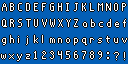
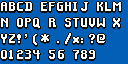
Replace font with bolder, more readable one

diff --git a/sprites/sprite_text.c b/sprites/sprite_text.c
@@ -5,15 +5,24 @@
 
 #include "sprite_buffer.h"
 
-static void write_char(char c, uint32_t x, uint32_t y);
-static void write_hex_char(uint32_t value, uint32_t x, uint32_t y);
+static const uint8_t BASE_TILE_BLANK = 0x7f;
+
+typedef struct {
+    uint8_t base_tile;
+    uint8_t width : 4;
+    bool wide : 1;
+} CharAttributes;
+
+static void write_char(char c, uint32_t *x, uint32_t y);
+static void write_hex_char(uint32_t value, uint32_t *x, uint32_t y);
 
 static uint16_t div_mod_10(uint16_t dividend, uint32_t *remainder);
 
+static const CharAttributes *char_attributes(char c);
+
 void st_write(const char *text, uint32_t x, uint32_t y) {
     while (*text) {
-        write_char(*text++, x, y);
-        x += 8;
+        write_char(*text++, &x, y);
     }
 }
 
@@ -21,20 +30,20 @@ void st_write_decimal(uint8_t value, uint32_t x, uint32_t y) {
     uint32_t ones_digit = 0;
     uint32_t tens_digit = div_mod_10(value, &ones_digit);
 
-    write_char('0' + ones_digit, x + 8, y);
     if (tens_digit) {
-        write_char('0' + tens_digit, x, y);
+        write_char('0' + tens_digit, &x, y);
     }
+    write_char('0' + ones_digit, &x, y);
 }
 
 void st_write_hex(uint16_t value, uint32_t x, uint32_t y) {
-    write_hex_char(value >> 12 & 0xf, x, y);
-    write_hex_char(value >> 8 & 0xf, x + 8, y);
-    write_hex_char(value >> 4 & 0xf, x + 16, y);
-    write_hex_char(value & 0xf, x + 24, y);
+    write_hex_char(value >> 12 & 0xf, &x, y);
+    write_hex_char(value >> 8 & 0xf, &x, y);
+    write_hex_char(value >> 4 & 0xf, &x, y);
+    write_hex_char(value & 0xf, &x, y);
 }
 
-static void write_hex_char(uint32_t value, uint32_t x, uint32_t y) {
+static void write_hex_char(uint32_t value, uint32_t *x, uint32_t y) {
     if (value >= 10) {
         value += 'A' - 10;
     } else {
@@ -44,47 +53,37 @@ static void write_hex_char(uint32_t value, uint32_t x, uint32_t y) {
     write_char(value, x, y);
 }
 
-static void write_char(char c, uint32_t x, uint32_t y) {
+static void write_char(char c, uint32_t *x, uint32_t y) {
     const uint16_t tile_base = 0x180;
     const uint8_t palette = 9;
 
     if (c == ' ') {
+        *x += 8;
         return;
     }
-    if (c == '0') {
-        c = 'O';
+
+    // Default to uppercase
+    if (c >= 'a' && c != 'x') {
+        c -= ('a' - 'A');
     }
 
-    uint32_t tile = 0;
-    if (c == '!') {
-        tile = 0x3f;
-    } else if (c == ':') {
-        tile = 0x3d;
-    } else if (c <= '9') {
-        tile = c - '0' + (26 * 2) - 1;
-    } else if (c <= 'Z') {
-        tile = c - 'A';
-    } else if (c <= 'z') {
-        tile = c - 'a' + 26;
-    } else {
-        // Unsupported char
-        tile = 0x3f;
-    }
+    const CharAttributes *attributes = char_attributes(c);
 
-    uint32_t row = tile / 0x10;
-    tile %= 0x10;
-    tile += row * 0x20;
+    uint16_t tile = attributes->base_tile;
 
-    uint32_t x_block = x;
+    uint32_t x_block = *x & 0x3ff;
 
     uint32_t y_block = y;
     y_block |= SPRITE_16_TALL;
+    y_block |= (attributes->wide ? SPRITE_16_WIDE : 0);
 
     uint32_t g_block = tile_base + tile;
     g_block |= palette << SPRITE_PAL_SHIFT;
     g_block |= 3 << SPRITE_PRIORITY_SHIFT;
 
     sb_write_priority(x_block, y_block, g_block);
+
+    *x += attributes->width;
 }
 
 // This is only intended for small dividends where the fixed point approximation works
@@ -98,4 +97,139 @@ static uint16_t div_mod_10(uint16_t dividend, uint32_t *remainder) {
     }
 
     return quotient;
+}
+
+static const CharAttributes attributes[128] = {
+    { 0 },   // U+0000 (nul)
+    { 0 },   // U+0001
+    { 0 },   // U+0002
+    { 0 },   // U+0003
+    { 0 },   // U+0004
+    { 0 },   // U+0005
+    { 0 },   // U+0006
+    { 0 },   // U+0007
+    { 0 },   // U+0008
+    { 0 },   // U+0009
+    { 0 },   // U+000A
+    { 0 },   // U+000B
+    { 0 },   // U+000C
+    { 0 },   // U+000D
+    { 0 },   // U+000E
+    { 0 },   // U+000F
+    { 0 },   // U+0010
+    { 0 },   // U+0011
+    { 0 },   // U+0012
+    { 0 },   // U+0013
+    { 0 },   // U+0014
+    { 0 },   // U+0015
+    { 0 },   // U+0016
+    { 0 },   // U+0017
+    { 0 },   // U+0018
+    { 0 },   // U+0019
+    { 0 },   // U+001A
+    { 0 },   // U+001B
+    { 0 },   // U+001C
+    { 0 },   // U+001D
+    { 0 },   // U+001E
+    { 0 },   // U+001F
+    { .base_tile = BASE_TILE_BLANK },                   // U+0020 (space)
+    { .base_tile = 0x42, .width = 7, .wide = false },   // U+0021 (!)
+    { 0 },   // U+0022 (")
+    { 0 },   // U+0023 (#)
+    { 0 },   // U+0024 ($)
+    { 0 },   // U+0025 (%)
+    { 0 },   // U+0026 (&)
+    { 0 },   // U+0027 (')
+    { 0 },   // U+0028 (()
+    { 0 },   // U+0029 ())
+    { .base_tile = 0x45, .width = 11, .wide = true },   // U+002A (*)
+    { 0 },   // U+002B (+)
+    { 0 },   // U+002C (,)
+    { 0 },   // U+002D (-)
+    { .base_tile = 0x47, .width = 5, .wide = false },   // U+002E (.)
+    { .base_tile = 0x48, .width = 9, .wide = false },   // U+002F (/)
+    { .base_tile = 0x60, .width = 9, .wide = false },   // U+0030 (0)
+    { .base_tile = 0x61, .width = 9, .wide = false },   // U+0031 (1)
+    { .base_tile = 0x62, .width = 9, .wide = false },   // U+0032 (2)
+    { .base_tile = 0x63, .width = 9, .wide = false },   // U+0033 (3)
+    { .base_tile = 0x64, .width = 10, .wide = true },   // U+0034 (4)
+    { .base_tile = 0x66, .width = 9, .wide = false },   // U+0035 (5)
+    { .base_tile = 0x67, .width = 10, .wide = true },   // U+0036 (6)
+    { .base_tile = 0x69, .width = 9, .wide = false },   // U+0037 (7)
+    { .base_tile = 0x6a, .width = 9, .wide = false },   // U+0038 (8)
+    { .base_tile = 0x6b, .width = 9, .wide = false },   // U+0039 (9)
+    { .base_tile = 0x4a, .width = 4, .wide = false },   // U+003A (:)
+    { 0 },    // U+003B (;)
+    { 0 },    // U+003C (<)
+    { 0 },    // U+003D (=)
+    { 0 },    // U+003E (>)
+    { .base_tile = 0x4b, .width = 9, .wide = false },   // U+003F (?)
+    { .base_tile = 0x4c, .width = 11, .wide = true },   // U+0040 (@)
+    { .base_tile = 0x00, .width = 9, .wide = false },   // U+0041 (A)
+    { .base_tile = 0x01, .width = 9, .wide = false },   // U+0042 (B)
+    { .base_tile = 0x02, .width = 9, .wide = false },   // U+0043 (C)
+    { .base_tile = 0x03, .width = 10, .wide = true },   // U+0044 (D)
+    { .base_tile = 0x05, .width = 9, .wide = false },   // U+0045 (E)
+    { .base_tile = 0x06, .width = 9, .wide = false },   // U+0046 (F)
+    { .base_tile = 0x07, .width = 9, .wide = false },   // U+0047 (G)
+    { .base_tile = 0x08, .width = 9, .wide = false },   // U+0048 (H)
+    { .base_tile = 0x09, .width = 9, .wide = false },   // U+0049 (I)
+    { .base_tile = 0x0a, .width = 10, .wide = true },   // U+004A (J)
+    { .base_tile = 0x0c, .width = 9, .wide = false },   // U+004B (K)
+    { .base_tile = 0x0d, .width = 9, .wide = false },   // U+004C (L)
+    { .base_tile = 0x0e, .width = 11, .wide = true },   // U+004D (M)
+    { .base_tile = 0x20, .width = 10, .wide = true },   // U+004E (N)
+    { .base_tile = 0x22, .width = 9, .wide = false },   // U+004F (O)
+    { .base_tile = 0x23, .width = 9, .wide = false },   // U+0050 (P)
+    { .base_tile = 0x24, .width = 10, .wide = true },   // U+0051 (Q)
+    { .base_tile = 0x26, .width = 10, .wide = true },   // U+0052 (R)
+    { .base_tile = 0x28, .width = 9, .wide = false },   // U+0053 (S)
+    { .base_tile = 0x29, .width = 9, .wide = false },   // U+0054 (T)
+    { .base_tile = 0x2a, .width = 9, .wide = false },   // U+0055 (U)
+    { .base_tile = 0x2b, .width = 9, .wide = false },   // U+0056 (V)
+    { .base_tile = 0x2c, .width = 12, .wide = true },   // U+0057 (W)
+    { .base_tile = 0x2e, .width = 10, .wide = true },   // U+0058 (X)
+    { .base_tile = 0x40, .width = 9, .wide = false },   // U+0059 (Y)
+    { .base_tile = 0x41, .width = 9, .wide = false },   // U+005A (Z)
+    { 0 },    // U+005B ([)
+    { 0 },    // U+005C (\)
+    { 0 },    // U+005D (])
+    { 0 },    // U+005E (^)
+    { 0 },    // U+005F (_)
+    { 0 },    // U+0060 (`)
+    { 0 },    // U+0061 (a)
+    { 0 },    // U+0062 (b)
+    { 0 },    // U+0063 (c)
+    { 0 },    // U+0064 (d)
+    { 0 },    // U+0065 (e)
+    { 0 },    // U+0066 (f)
+    { 0 },    // U+0067 (g)
+    { 0 },    // U+0068 (h)
+    { 0 },    // U+0069 (i)
+    { 0 },    // U+006A (j)
+    { 0 },    // U+006B (k)
+    { 0 },    // U+006C (l)
+    { 0 },    // U+006D (m)
+    { 0 },    // U+006E (n)
+    { 0 },    // U+006F (o)
+    { 0 },    // U+0070 (p)
+    { 0 },    // U+0071 (q)
+    { 0 },    // U+0072 (r)
+    { 0 },    // U+0073 (s)
+    { 0 },    // U+0074 (t)
+    { 0 },    // U+0075 (u)
+    { 0 },    // U+0076 (v)
+    { 0 },    // U+0077 (w)
+    { .base_tile = 0x49, .width = 9, .wide = false },   // U+0078 (x)
+    { 0 },   // U+0079 (y)
+    { 0 },   // U+007A (z)
+    { 0 },   // U+007B ({)
+    { 0 },   // U+007C (|)
+    { 0 },   // U+007D (})
+    { 0 },   // U+007E (~)
+    { 0 }    // U+007F
+};
+
+static const CharAttributes *char_attributes(char c) {
+    return &attributes[(uint8_t)c];
 }

diff --git a/palette/palette_buffer.c b/palette/palette_buffer.c
@@ -40,16 +40,25 @@ void pb_queue_palette(uint8_t palette_id) {
     palette_needs_upload[palette_id] = true;
 }
 
-void pb_alpha_mask_all(uint8_t alpha, bool including_bg_color) {
+void pb_alpha_mask_palette(uint8_t palette_id, uint8_t alpha, bool including_bg_color) {
     uint16_t alpha_mask = alpha << 12;
+    uint32_t color_id_base = (including_bg_color ? 0 : 1);
+    uint32_t palette_base = palette_id * 16;
 
-    uint32_t base_index = (including_bg_color ? 0 : 1);
-    for (uint32_t i = base_index; i < PALETTE_COUNT * PALETTE_SIZE; i++) {
-        palette_modified[i] = (palette_preloaded[i] & 0x0fff) | alpha_mask;
+    for (uint32_t i = color_id_base; i < PALETTE_SIZE; i++) {
+        uint16_t color = (palette_preloaded[palette_base + i] & 0x0fff) | alpha_mask;
+        palette_modified[palette_base + i] = color;
     }
 
+    palette_needs_upload[palette_id] = true;
+    bg_color_needs_upload |= ((palette_id == 0) && including_bg_color);
     use_modified_palette = true;
-    pb_queue_all(including_bg_color);
+}
+
+void pb_alpha_mask_all(uint8_t alpha, bool including_bg_color) {
+    for (uint32_t i = 0; i < PALETTE_COUNT; i++) {
+        pb_alpha_mask_palette(i, alpha, including_bg_color);
+    }
 }
 
 static uint8_t lerp_channel(uint8_t from, uint8_t to, uint8_t step) {

diff --git a/palette/palette_buffer.h b/palette/palette_buffer.h
@@ -8,6 +8,7 @@ void pb_preload_bg_color(uint16_t color);
 void pb_preload_single_color(uint8_t color_id, uint16_t color);
 void pb_preload_single_palette(uint8_t palette_id, const uint16_t *data);
 
+void pb_alpha_mask_palette(uint8_t palette_id, uint8_t alpha, bool including_bg_color);
 void pb_alpha_mask_all(uint8_t alpha, bool including_bg_color);
 
 void pb_lerp_palette_to_white(uint8_t palette_id, uint16_t mask, uint8_t step);

diff --git a/hero/hero_life_meter.c b/hero/hero_life_meter.c
@@ -46,8 +46,8 @@ void hero_draw_draw_coin_counter(const Hero *hero) {
 
     // Digits
 
-    st_write("x", x + 16, y + 6);
-    st_write_decimal(hero->coins, x + 24, y + 6);
+    st_write("x", x + 16, y + 3);
+    st_write_decimal(hero->coins, x + 25, y + 3);
 }
 
 static void draw_heart(uint32_t x, uint32_t y, bool filled) {
